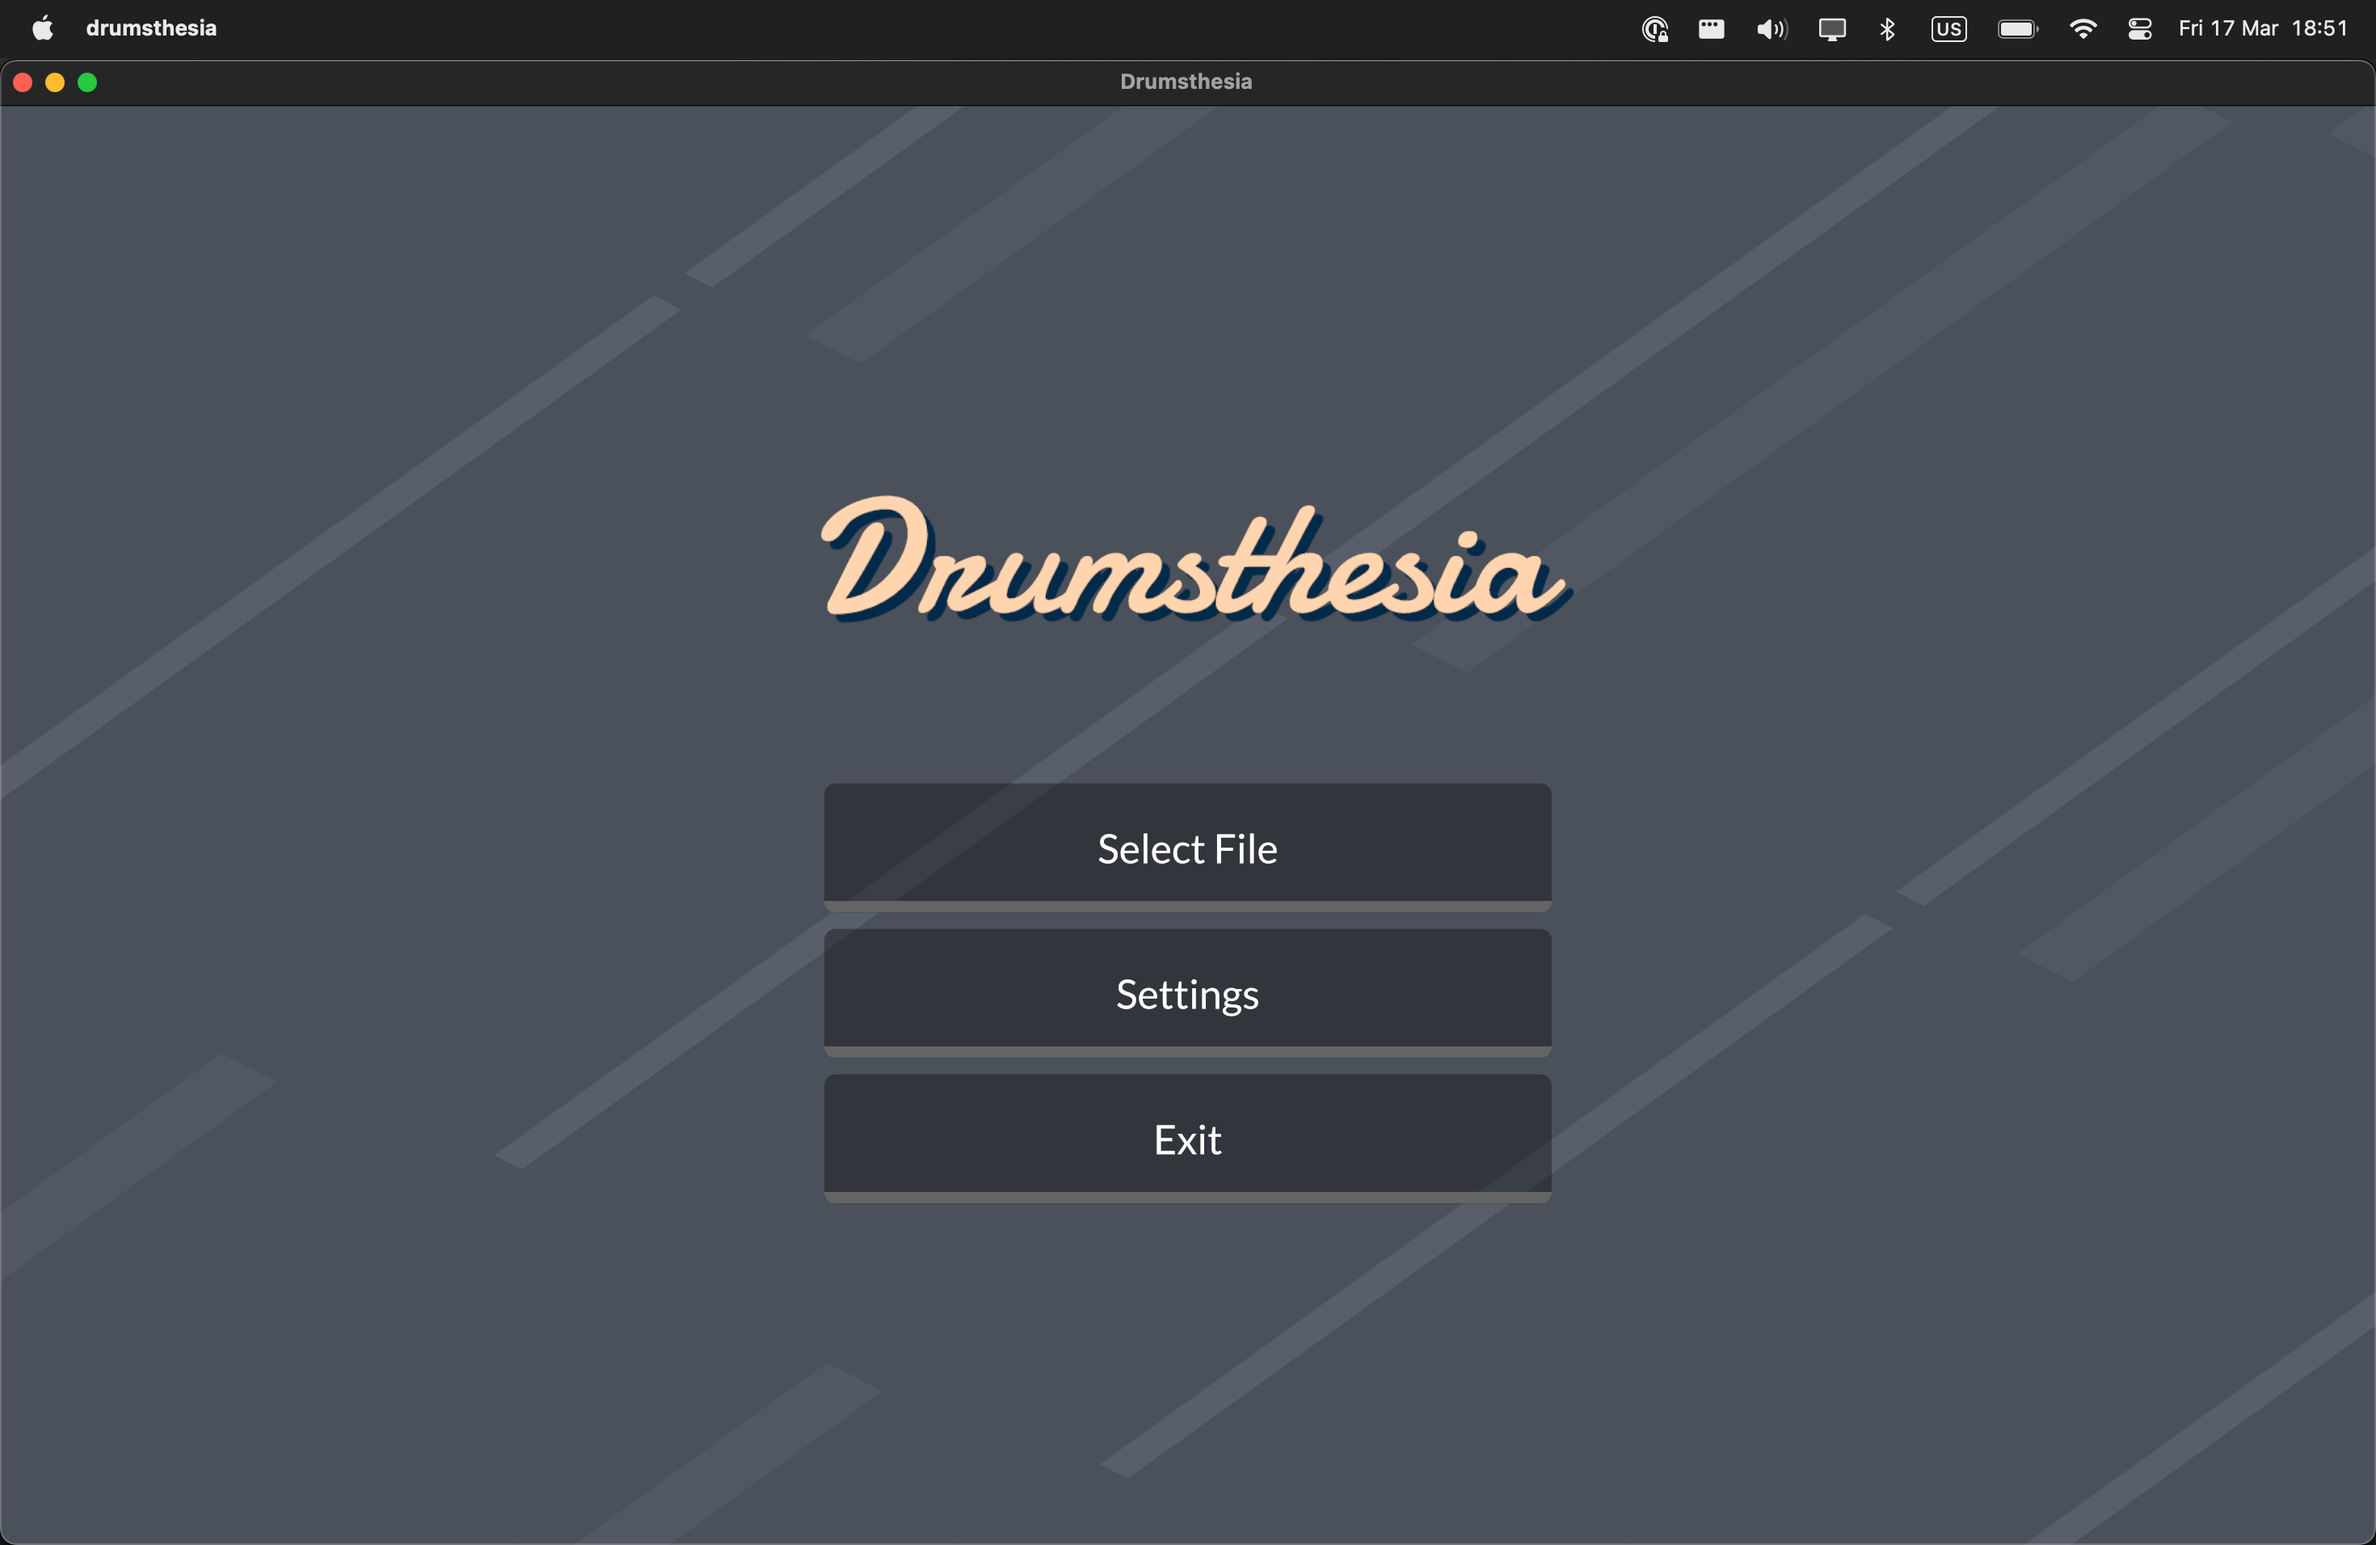
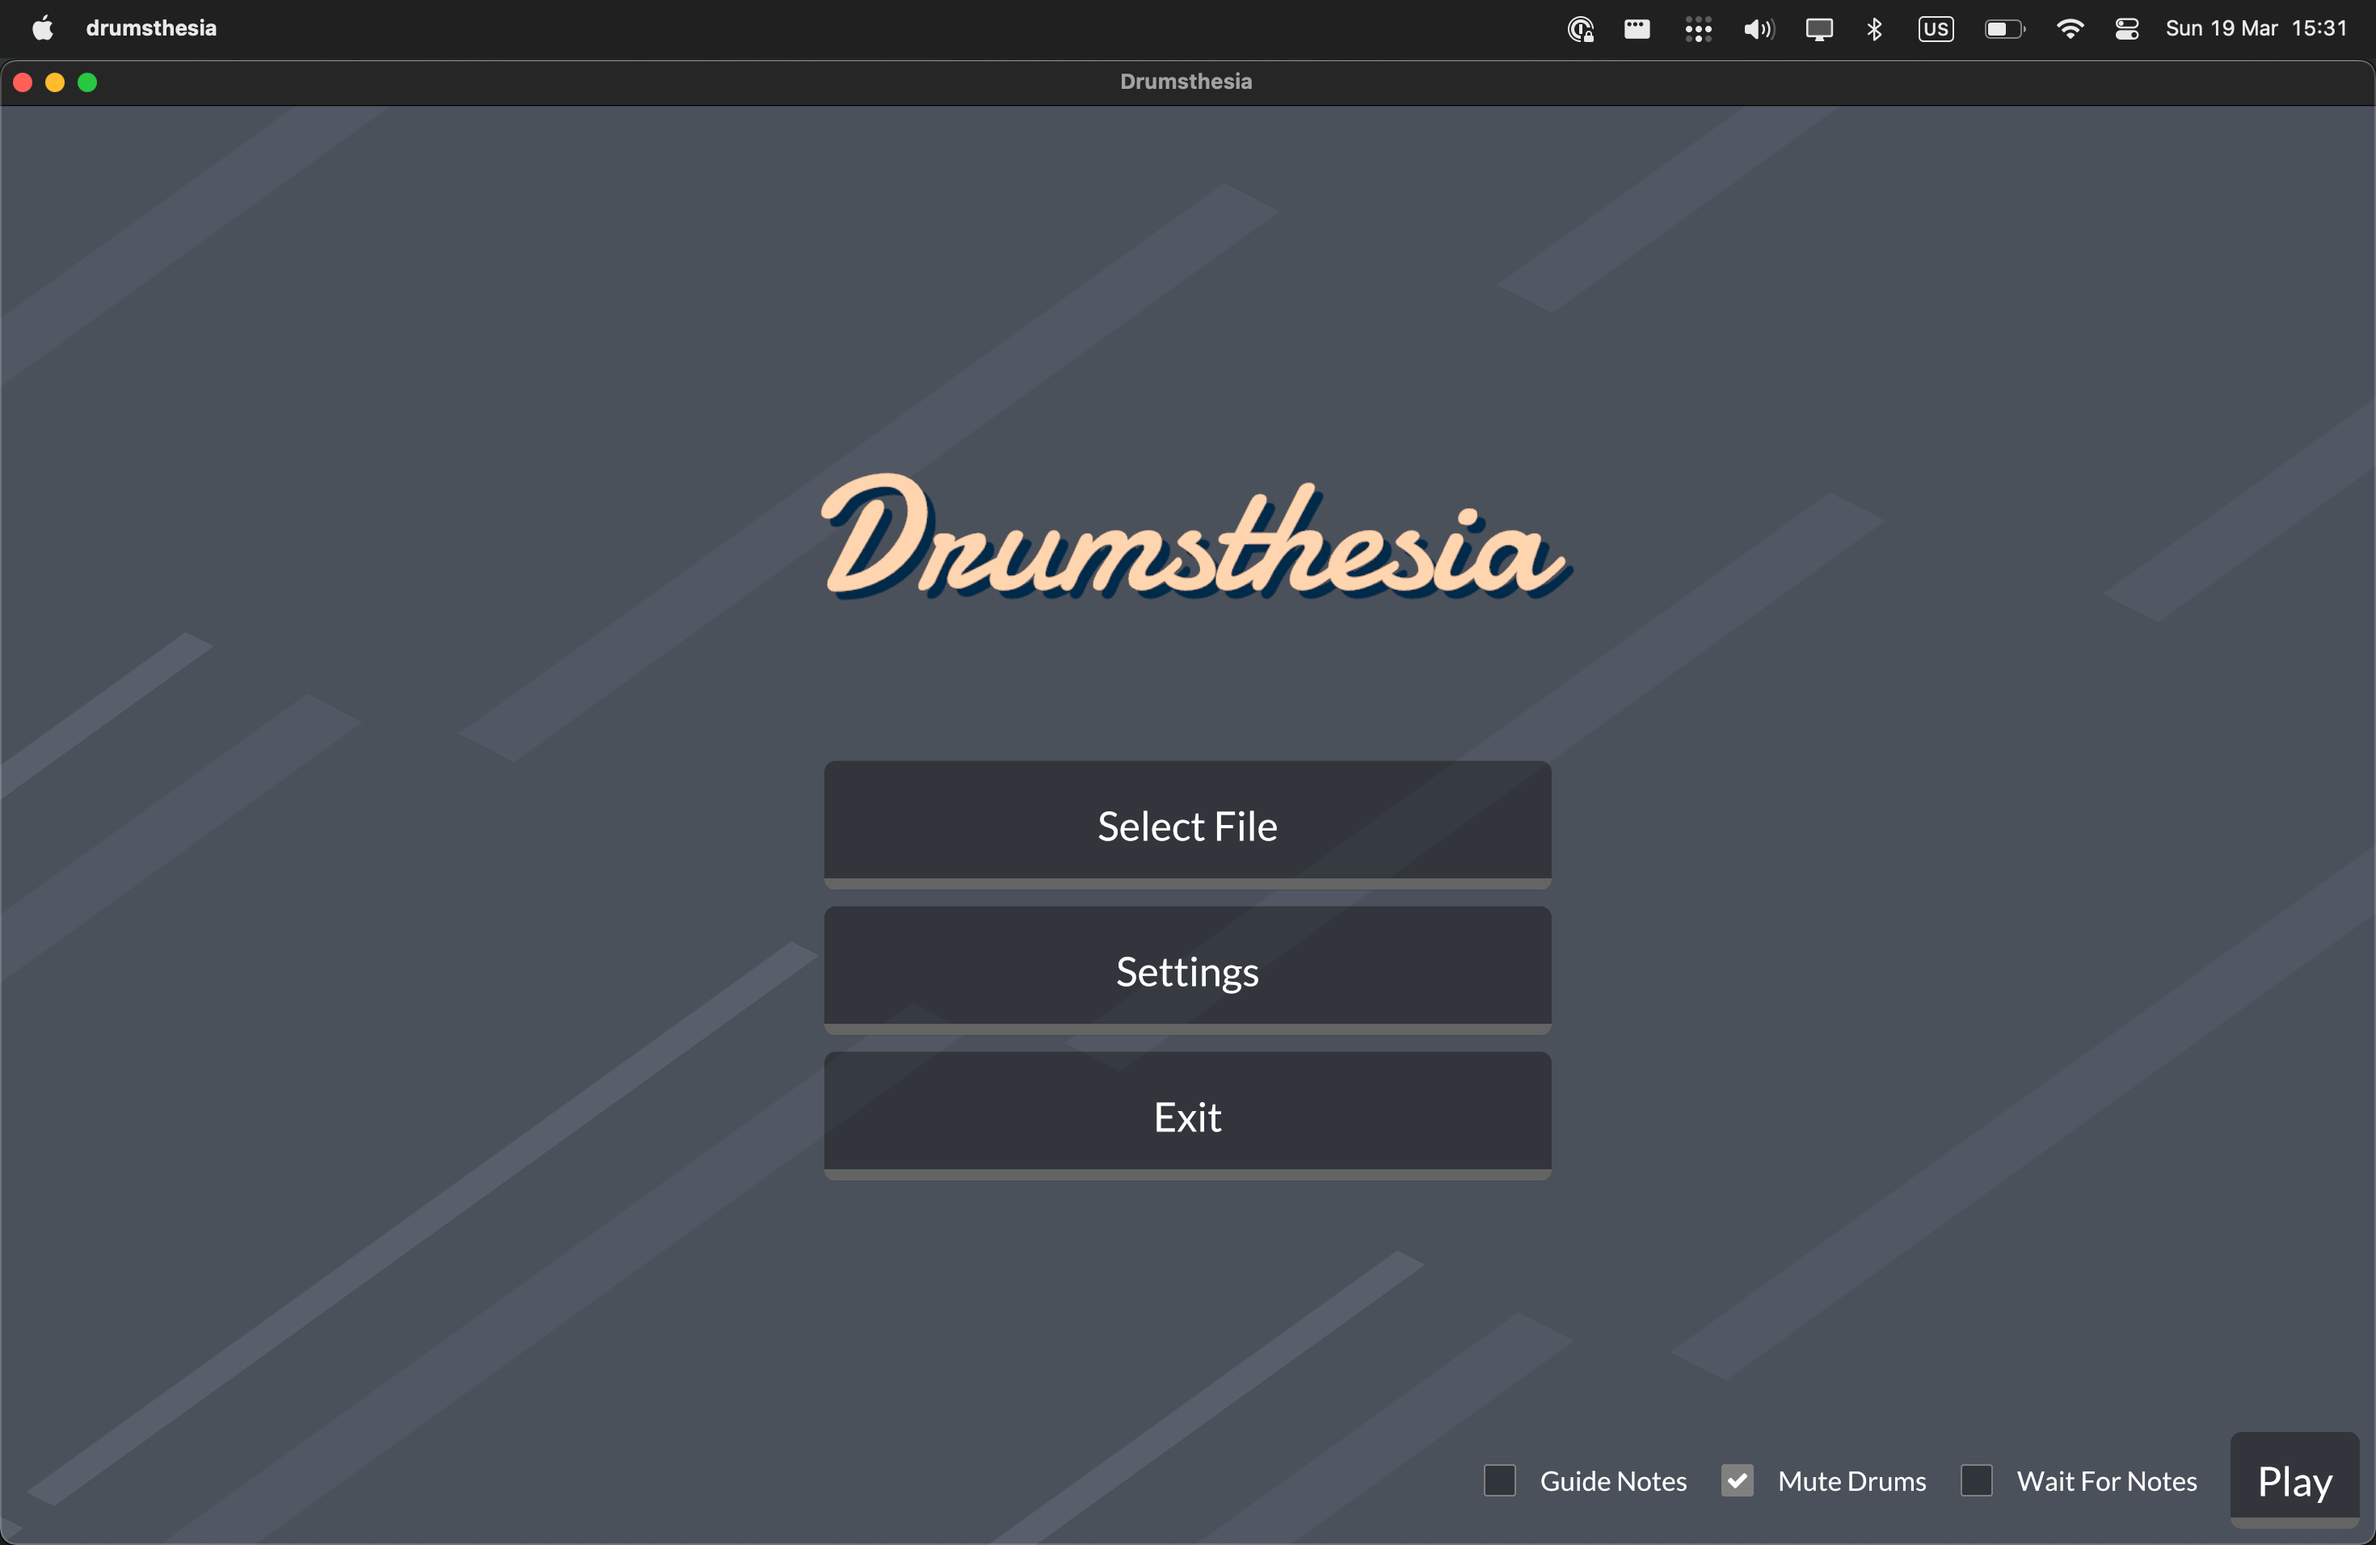
feat: mute drums option (#7)

diff --git a/src/scene/menu_scene/iced_menu/mod.rs b/src/scene/menu_scene/iced_menu/mod.rs
@@ -41,6 +41,7 @@ pub enum Message {
 
     WaitForNotesCheckbox(bool),
     GuideNotesCheckbox(bool),
+    MuteDrumsCheckbox(bool),
     SelectLayout(PlayingSceneLayout),
 
     GoToPage(Step),
@@ -58,6 +59,7 @@ struct Data {
 
     wait_for_notes: bool,
     guide_notes: bool,
+    mute_drums: bool,
     is_loading: bool,
 
     layouts: Vec<PlayingSceneLayout>,
@@ -86,6 +88,7 @@ impl AppUi {
 
                 wait_for_notes: target.config.wait_for_notes,
                 guide_notes: target.config.guide_notes,
+                mute_drums: target.config.mute_drums,
                 layouts: vec![PlayingSceneLayout::Horizontal, PlayingSceneLayout::Vertical],
                 selected_layout: Some(PlayingSceneLayout::Horizontal),
                 is_loading: false,
@@ -165,6 +168,10 @@ impl Program for AppUi {
             Message::GuideNotesCheckbox(v) => {
                 target.config.guide_notes = v;
                 self.data.guide_notes = v;
+            }
+            Message::MuteDrumsCheckbox(v) => {
+                target.config.mute_drums = v;
+                self.data.mute_drums = v;
             }
             Message::SelectLayout(v) => {
                 target.config.layout = v;
@@ -330,6 +337,9 @@ impl<'a> Step {
             let guide_notes = checkbox("Guide Notes", data.guide_notes, Message::GuideNotesCheckbox)
                 .style(theme::checkbox());
 
+            let mute_drums = checkbox("Mute Drums", data.mute_drums, Message::MuteDrumsCheckbox)
+                .style(theme::checkbox());
+
             let wait_for_notes = checkbox("Wait For Notes", data.wait_for_notes, Message::WaitForNotesCheckbox)
                 .style(theme::checkbox());
 
@@ -338,7 +348,7 @@ impl<'a> Step {
                 .min_width(80)
                 .on_press(Message::Play);
 
-            let row = row![guide_notes, wait_for_notes, play]
+            let row = row![guide_notes, mute_drums, wait_for_notes, play]
                 .spacing(20)
                 .align_items(Alignment::Center);
 

diff --git a/src/scene/playing_scene/mod.rs b/src/scene/playing_scene/mod.rs
@@ -254,14 +254,18 @@ impl Scene for PlayingScene {
                 );
 
                 if let Some(mapping) = get_midi_mapping_for_note(key.as_int()) {
-                    self.player
-                        .output_manager
-                        .borrow_mut()
-                        .midi_event(event.channel, event.message);
+                    if !target.config.mute_drums {
+                        self.player
+                            .output_manager
+                            .borrow_mut()
+                            .midi_event(event.channel, event.message);
+                    }
+
                     self.played_notes.push((
                         self.player.time_without_lead_in() + target.config.playback_offset,
                         mapping,
                     ));
+
                     self.marks
                         .resize(target, self.drum_roll.lanes(), &self.played_notes);
                 }

diff --git a/src/config.rs b/src/config.rs
@@ -55,6 +55,10 @@ pub struct Config {
     #[serde(skip_serializing)]
     pub guide_notes: bool,
 
+    #[serde(default = "default_mute_drums")]
+    #[serde(skip_serializing)]
+    pub mute_drums: bool,
+
     #[serde(default = "default_layout")]
     #[serde(skip_serializing)]
     pub layout: PlayingSceneLayout,
@@ -101,6 +105,7 @@ impl Config {
             playback_offset: default_playback_offset(),
             wait_for_notes: default_wait_for_notes(),
             guide_notes: default_guide_notes(),
+            mute_drums: default_mute_drums(),
             layout: default_layout(),
             color_schema: default_color_schema(),
             background_color: Default::default(),
@@ -148,6 +153,10 @@ fn default_wait_for_notes() -> bool {
 
 fn default_guide_notes() -> bool {
     false
+}
+
+fn default_mute_drums() -> bool {
+    true
 }
 
 fn default_layout() -> PlayingSceneLayout {
